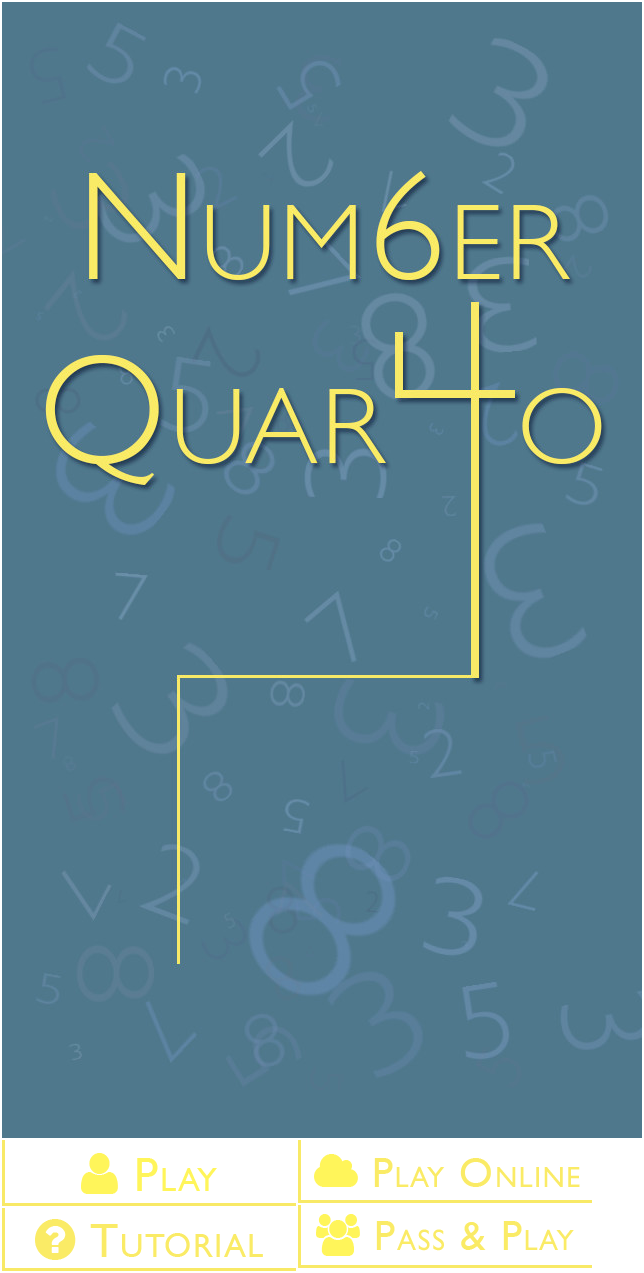
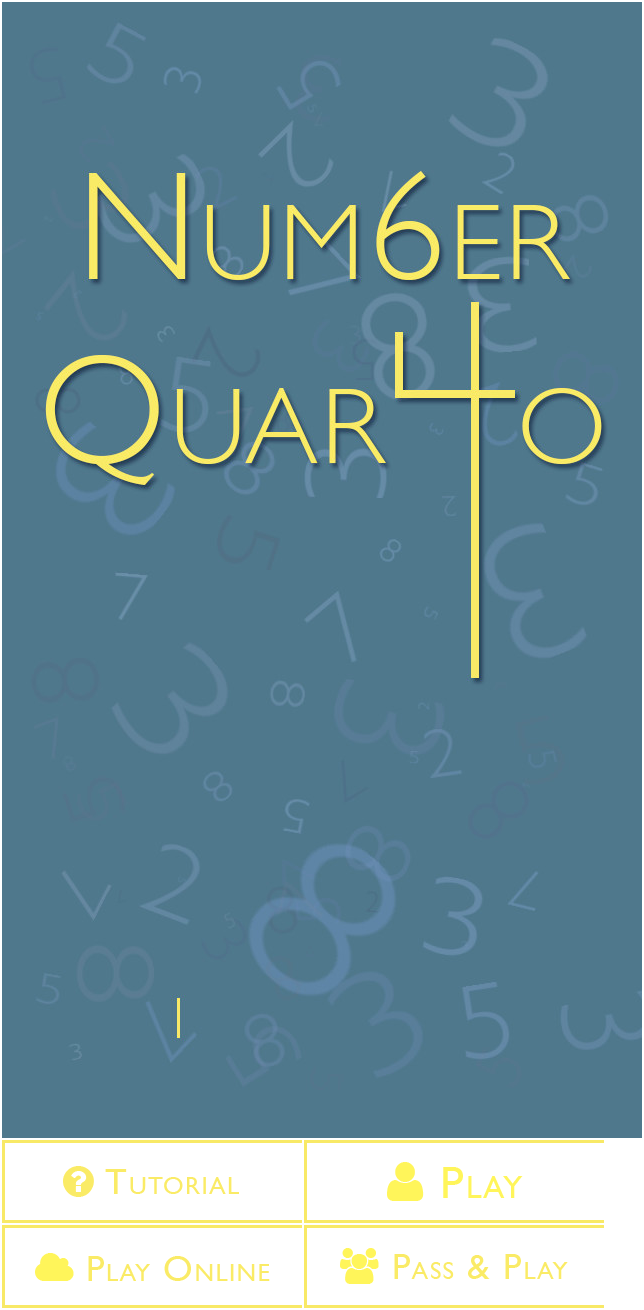
Adjust title screen by widening buttons

diff --git a/core/src/com/numberquarto/TitleScreen.java b/core/src/com/numberquarto/TitleScreen.java
@@ -83,7 +83,7 @@ public class TitleScreen implements Screen {
 
 		TitleScreenButton(String buttonName, int index, ClickListener listener) {
 			buttonTexture = skin.getRegion(buttonName);
-			this.setBounds(175, Launch.SCREEN_HEIGHT - (739 + index * 63),
+			this.setBounds(175, Launch.SCREEN_HEIGHT - (756 + index * 80),
 					buttonTexture.getRegionWidth(),
 					buttonTexture.getRegionHeight());
 			this.addListener(listener);
